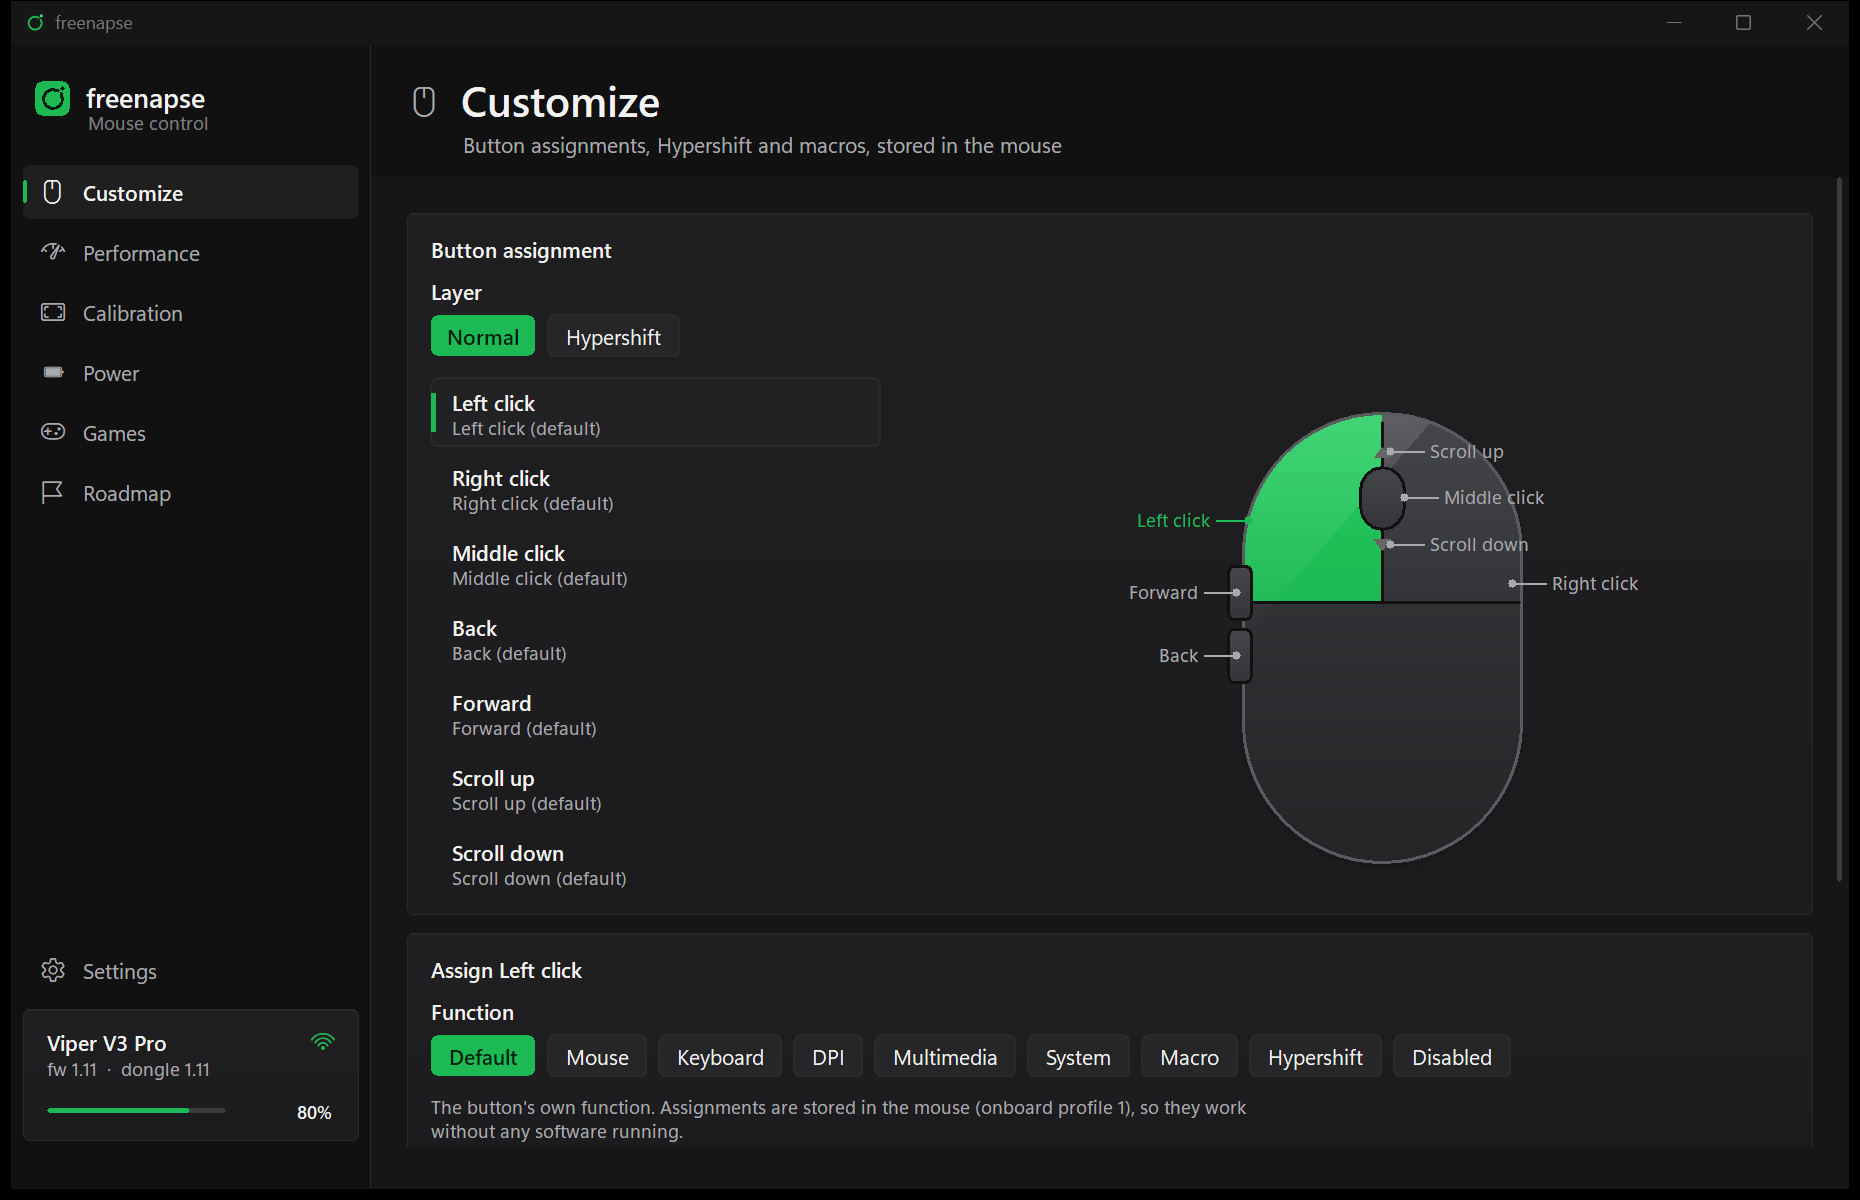
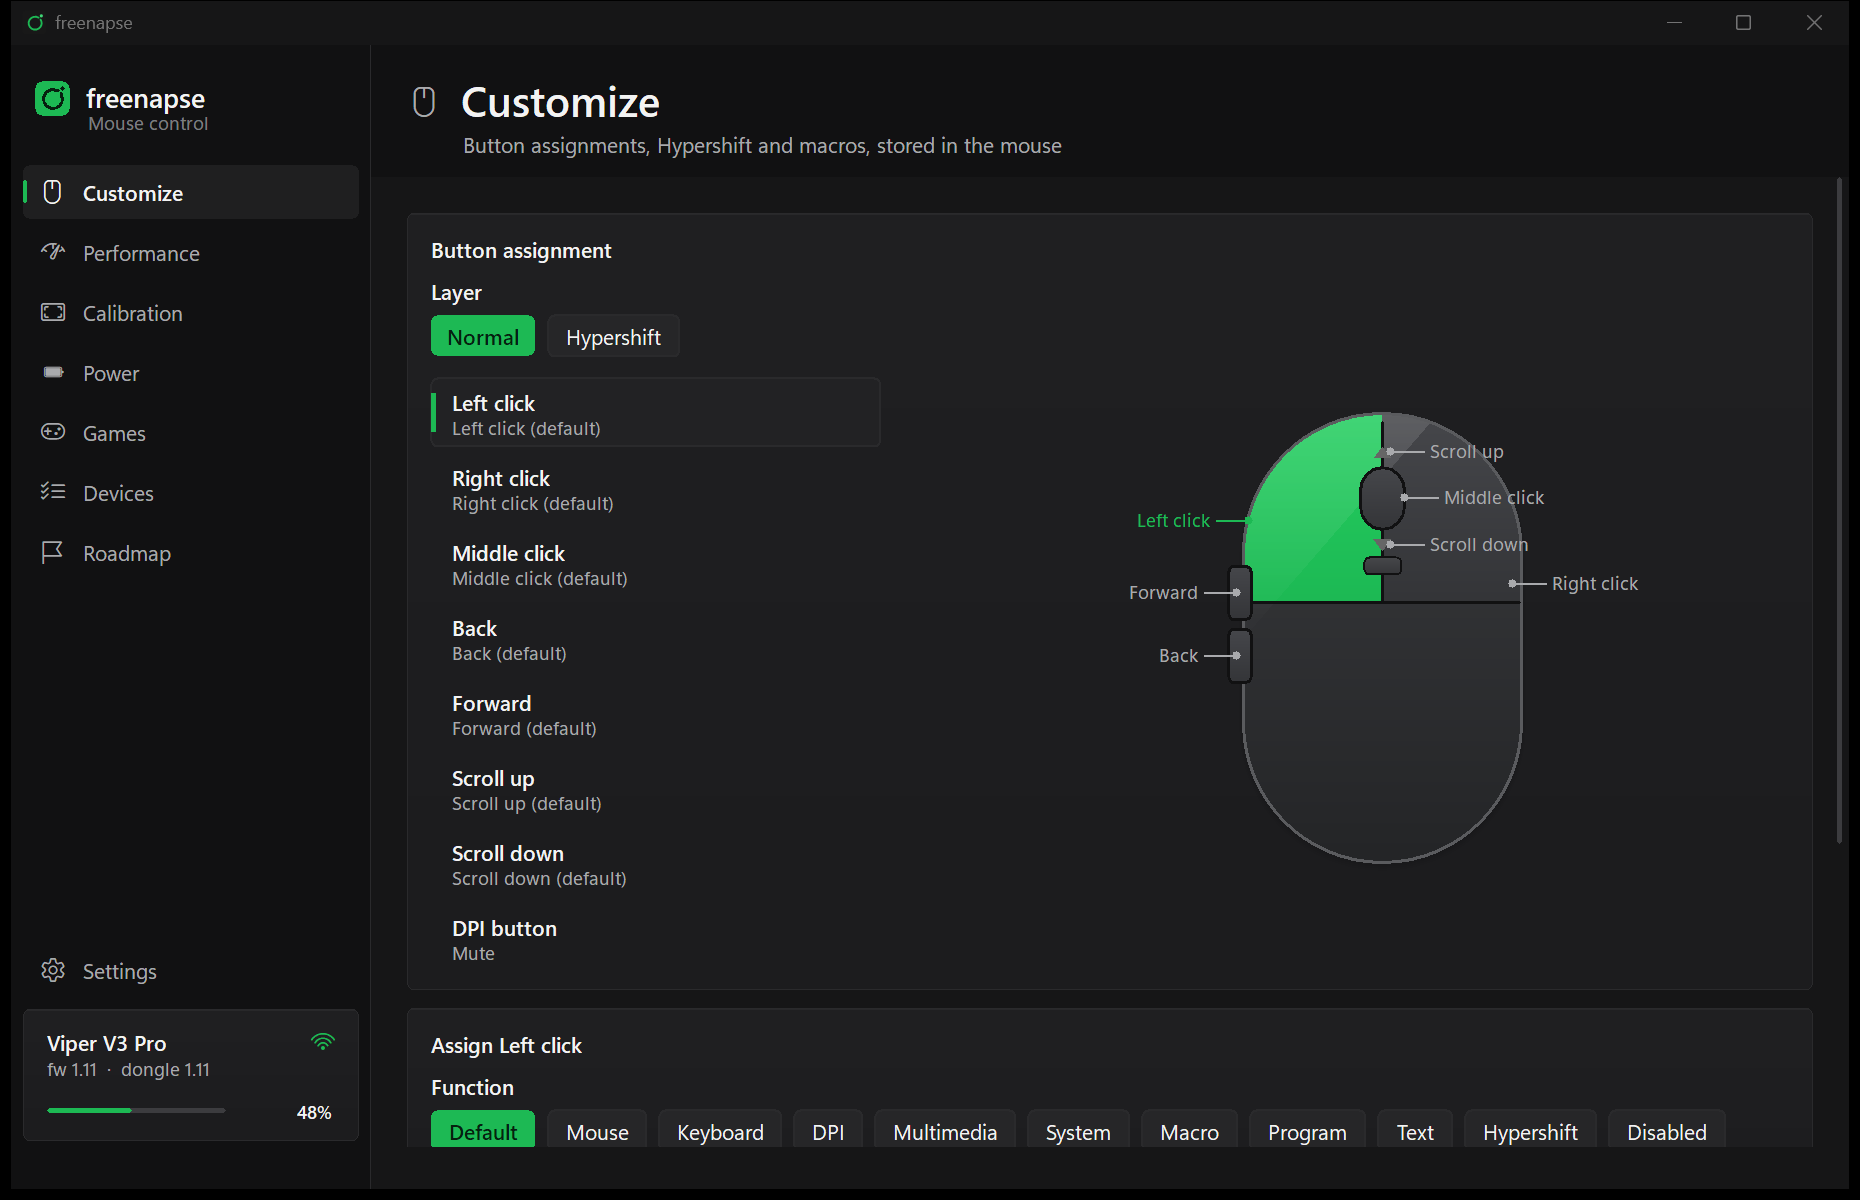
README: screenshots from 0.5.3, the Devices page, Program and Text functions

diff --git a/README.md b/README.md
@@ -38,7 +38,7 @@ costs its owner one command, `freenapse probe`, pasted into a
 differ a lot keep their own config file, so two of them on one PC never share
 settings.
 
-![The Customize page: button assignment with the mouse drawing](assets/screenshot-customize.png)
+![The Devices page: the connected mouse and the list of verified mice with their product ids, DPI, polling rates and button counts](assets/screenshot-devices.png)
 
 Synapse 4 on this machine runs as 11 Electron processes using about 1.5 GB of RAM
 and burns CPU while gaming. freenapse is one small native executable with no
@@ -87,7 +87,7 @@ its own profile.
 * Dongle pairing: pair, cancel, unpair and auto-pairing
 * Lighting on mice with LEDs (Basilisk V2: logo and wheel): off, static, breathing, spectrum and brightness per zone
 * Tray icon with battery percentage, DPI stage and polling rate menu, low battery notification. It reconnects the moment the dongle is plugged in or the PC wakes, writes the config file to the mouse when you edit it by hand, and once a day asks GitHub whether a newer release exists (the only network request it makes; `check_updates = false` turns it off)
-* Settings window in the style of a game client ((navigation pane with Customize / Performance / Calibration / Power / Games / Roadmap, Windows 11 style settings rows, game tiles with cover art; see DESIGN.md)): every change is written to the mouse as you make it, no apply button
+* Settings window in the style of a game client (navigation pane with Customize / Performance / Calibration / Power / Games / Devices / Roadmap, Windows 11 style settings rows, game tiles with cover art; see DESIGN.md): every change is written to the mouse as you make it, no apply button
 * Firmware versions and serial numbers of mouse and dongle
 
 ## Settings window
@@ -98,13 +98,16 @@ page in a Steam / Xbox-app style layout (navigation pane with the device
 card, a page header, flat cards of settings rows in the Fluent 2 type ramp), drawn with
 plain GDI inside the same 1 MB executable.
 
+![The Customize page: the button list with the DPI button, the mouse drawing and the function picker](assets/screenshot-customize.png)
+
 ![The Performance page: DPI stages, Dynamic Sensitivity and polling rate](assets/screenshot-performance.png)
 
-* **Customize**: pick a layer (Normal, Hypershift, or one per game), click a button in the list or on the mouse drawing, pick a function (default, mouse button or double-click, keyboard key with modifiers, DPI stage/cycle, media key, system sleep / power / wake, macro with its playback option, Hypershift, disabled). Mouse and keyboard functions have a Turbo toggle with a repeat rate. The MACROS section below records new macros (Stop or Esc ends the recording), renames and deletes them, and shows the macro memory left in the mouse.
+* **Customize**: pick a layer (Normal, Hypershift, or one per game), click a button in the list or on the mouse drawing, pick a function (default, mouse button or double-click, keyboard key with modifiers, DPI stage/cycle, media key, system sleep / power / wake, macro with its playback option, program, text, Hypershift, disabled). Mouse and keyboard functions have a Turbo toggle with a repeat rate. The MACROS section below records new macros (Stop or Esc ends the recording), renames and deletes them, and shows the macro memory left in the mouse.
 * **Performance**: DPI stages (enable, count, value per stage via slider or typed, active stage, independent X and Y), Dynamic Sensitivity with the three presets and a drag-the-points curve editor, polling rate, sensor rotation.
 * **Games**: your game profiles as tiles (click one to set its DPI stage, polling rate, name and program, or jump to its button layout) and the installed games found in the launchers as a grid of cover tiles (Steam's library art, Xbox logos, otherwise the program's icon on a generated tile) with launcher filter chips and a search box: click a game to create its profile. The "Add a program" tile opens a file dialog for anything else. Below, the in-game polling rate that profiles use by default.
 * **Calibration**: Smart Tracking (1, 2 or 3 mm) or the asymmetric cut-off with Synapse's lift-off and landing level sliders. The page is shown for mice with the Focus Pro tracking page. Surface calibration and mouse-mat presets are not offered by Synapse for the mouse it is verified on (the Viper V3 Pro), so they are not here either.
 * **Power**: battery, notification threshold, idle sleep, low power mode, dongle LED.
+* **Devices**: the connected mouse and every mouse in the device table, grouped as verified, being tested and read-only, with product ids, DPI ceiling, polling rates and button count. For a connected mouse that is not verified yet, the "Allow writes to this mouse" switch is here.
 * **Roadmap**: every Synapse feature with its status (done, partial, not yet, out of scope) and what the next releases aim for; the same content as ROADMAP.md.
 * The gear opens app settings: start at login, battery refresh, re-import from the mouse, re-apply everything, onboard profile selector, dongle pairing (pair, cancel, unpair, auto-pairing), device info.
 
